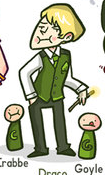
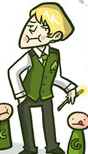
Crops Malfoy picture and changes border color for death eaters

diff --git a/styles.css b/styles.css
@@ -64,7 +64,7 @@ body, a:link, a:visited, a:active{
   -webkit-animation-iteration-count: infinite;
 }
 .death{
-  border:5px solid green;
+  border:5px solid #0F0;
   border-radius:10px;
   height: 200px;
   transition: height 1s;
